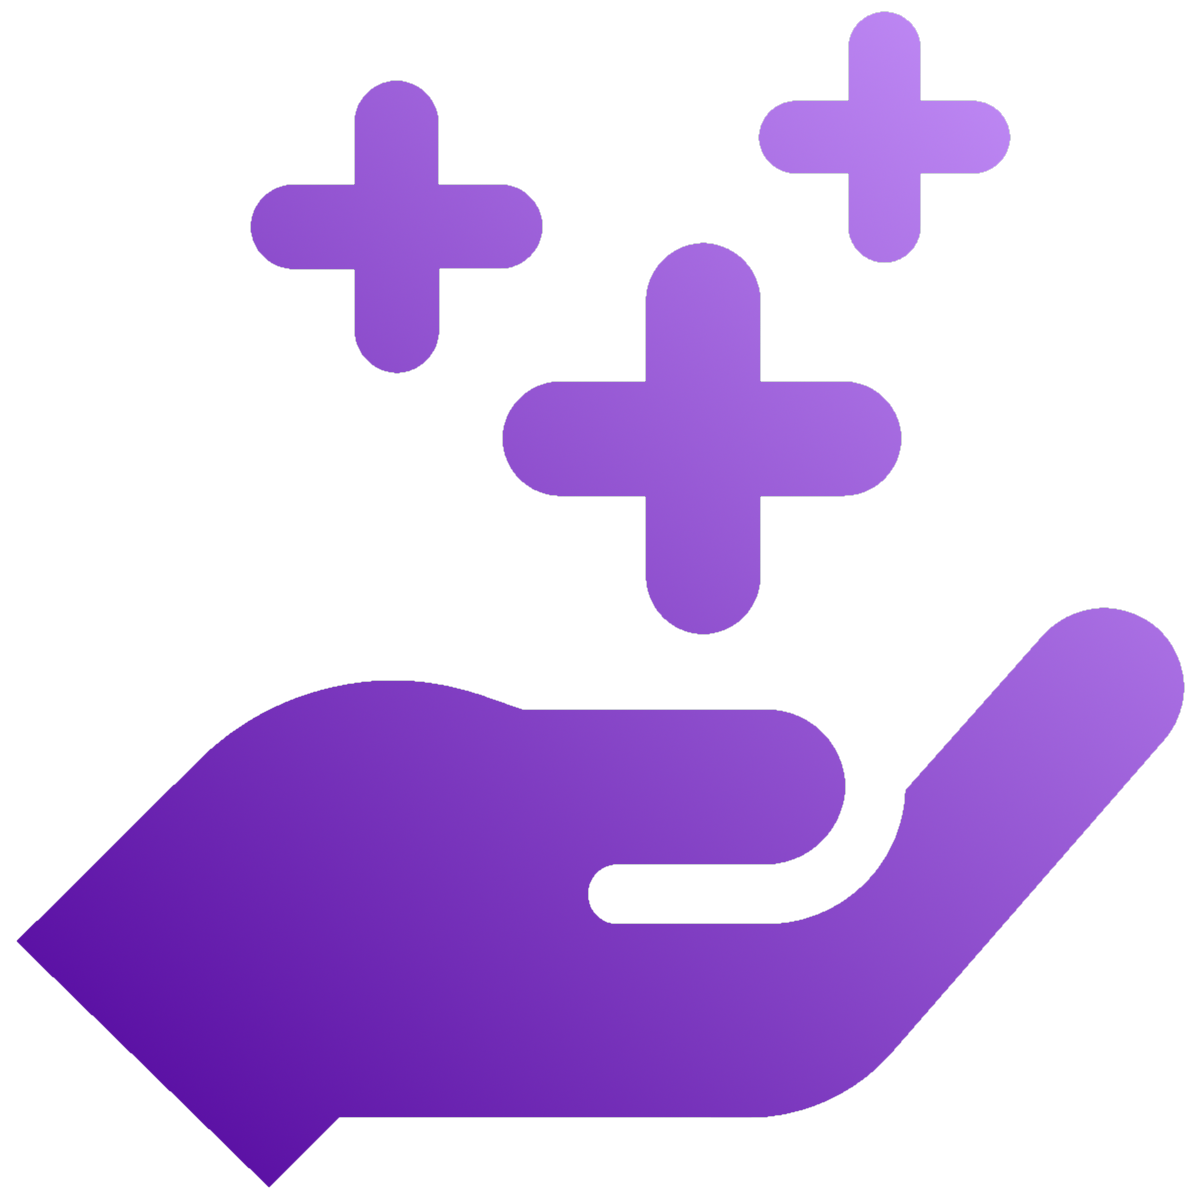
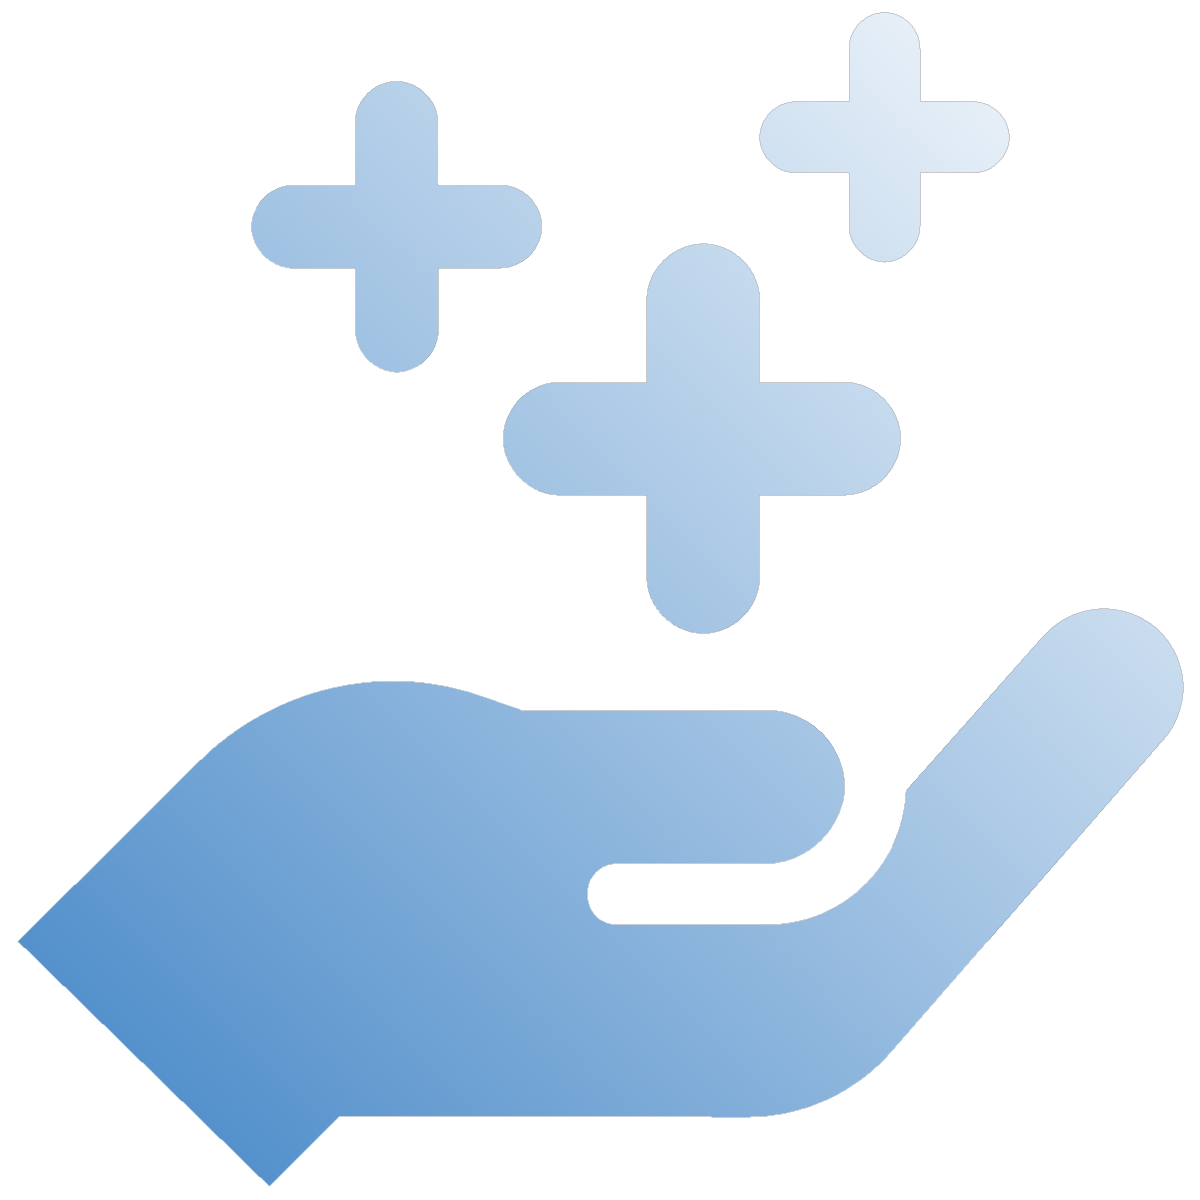
Changed bullet points to match theme (light blue)

diff --git a/src/index.css b/src/index.css
@@ -298,18 +298,18 @@ nav ul a {
 }
 .code-bullet-points li {
   position: relative;
-  padding-left: 25px;
+  padding-left: 33px;
 }
 .code-bullet-points li:before {
   content: "";
-  width: 15px;
-  height: 15px;
+  width: 16px;
+  height: 16px;
   position: absolute;
-  /* background-image: url("./assets/code-bullet-point.png"); */
-  background-image: url("./assets/code4.png");
+  background-image: url("./assets/code-bullet-point.png");
+  /* background-image: url("./assets/code5.png"); */
   background-size: cover;
-  left: 0;
-  top: 4px;
+  left: 4px;
+  top: 5px;
 }
 
 .value-bullet-points {
@@ -318,17 +318,18 @@ nav ul a {
 }
 .value-bullet-points li {
   position: relative;
-  padding-left: 30px;
+  padding-left: 33px;
 }
 .value-bullet-points li:before {
   content: "";
-  width: 20px;
-  height: 20px;
+  width: 23px;
+  height: 23px;
   position: absolute;
-  /* background-image: url("./assets/value-bullet-point.png"); */
-  background-image: url("./assets/value4.png");
+  background-image: url("./assets/value-bullet-point.png");
+  /* background-image: url("./assets/value5.png"); */
   background-size: cover;
   left: 0;
+  top: 2px;
 }
 
 /* ------------------- fade animations ------------------- */
